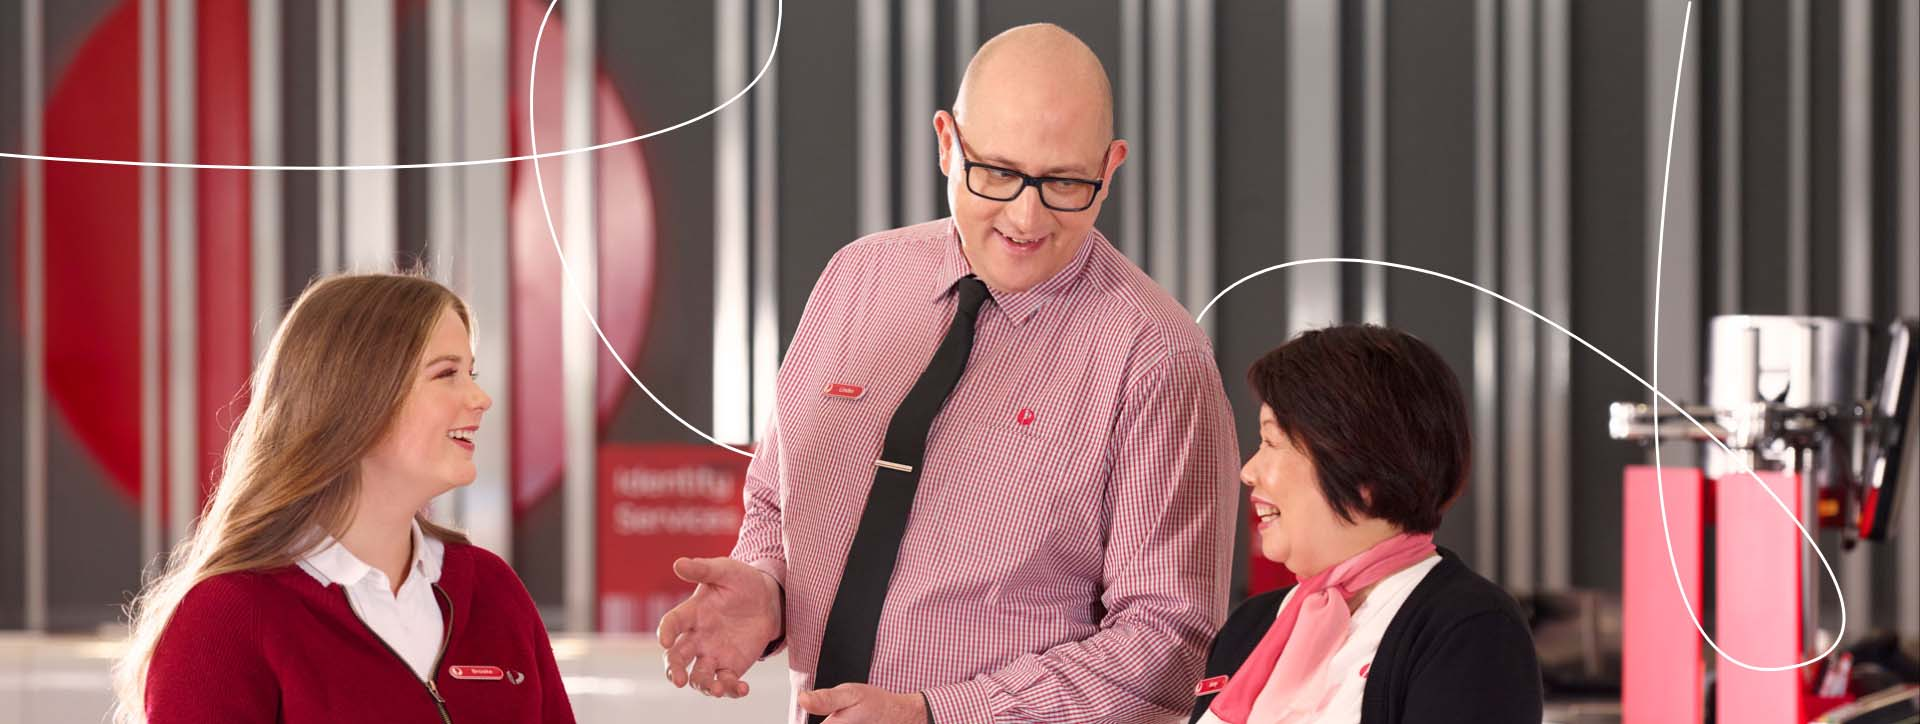
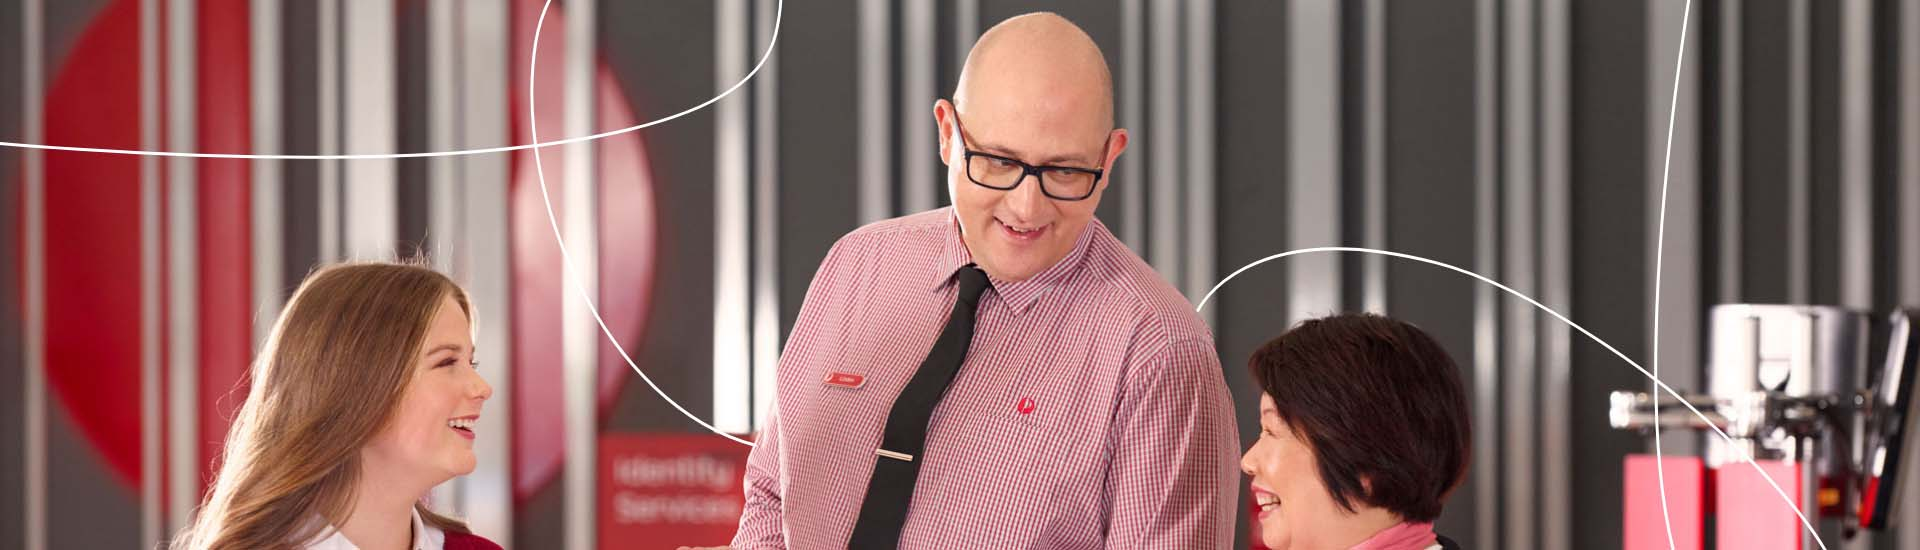
nc

diff --git a/css/course.css b/css/course.css
@@ -125,16 +125,9 @@
     #page-m1_t1_p1 #banner-message { bottom: auto; left: auto; top: 4%; right: 20px; }
 }
 
-#page-m1_t2_p1 #banner { background: url(../content/images/t2_banner_xs.jpg); background-size: cover; }
-#page-m1_t2_p1 #banner-message { bottom: 10px; left: 86px; }
-@media (min-width: 375px) {
-    #page-m1_t2_p1 #banner-message { left: 105px; }
-}
-@media (min-width: 479px) {
-    #page-m1_t2_p1 #banner { background: url(../content/images/t2_banner_sm.jpg); background-size: cover; }
-    #page-m1_t2_p1 #banner-message { left: 250px; }
-}
-@media (min-width: 768px) {
+#page-m1_t2_p1 #banner { background: url(../content/images/t2_banner_sm.jpg); background-size: cover; background-position: 50%; }
+#page-m1_t2_p1 #banner-message { bottom: 3%; left: 3%; }
+@media (min-width: 980px) {
   #page-m1_t2_p1 #banner-message { bottom: auto; left: auto; top: 4%; right: 20px; }
 }
 

diff --git a/content/pages/m1/t2/p1.html b/content/pages/m1/t2/p1.html
@@ -1,4 +1,4 @@
-<div id="banner">
+<div id="banner" class="break-lg">
     <img src="content/images/t2_banner.jpg" alt="" />
     <div>
       <div class="container">
